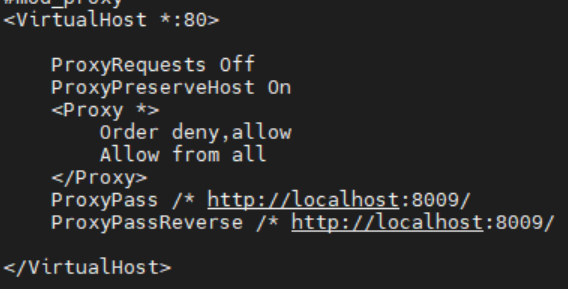
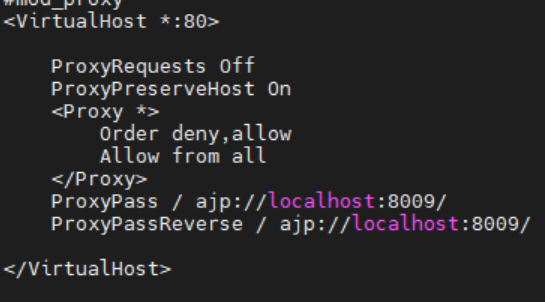
changed

Changed region(s): [[0.0624, 0.1869, 0.9982, 0.8097], [0.0, 0.8408, 0.3119, 0.9654], [0.0, 0.0, 0.4055, 0.0934]]

diff --git a/_posts/2021-04-30-connect apache with tomcat (2).md b/_posts/2021-04-30-connect apache with tomcat (2).md
@@ -12,7 +12,7 @@ author: oscar
 
 mod_proxy_ajp을 사용하여 연동하는 것은 mod_jk보다 훨씬 간단하다.
 
-아파치 홈/conf/httpd.conf 설정 파일을 설정합니다. nano 편집기로 httpd.conf파일을 열어서 'mod_proxy' 모듈을 로드하도록 변경합니다. (주석 풀어줍니다.)
+아파치 홈/conf/httpd.conf 설정 파일을 설정합니다. nano 편집기로 httpd.conf파일을 열어서 'mod_proxy'와 'mod_proxy_ajp' 모듈을 로드하도록 변경합니다. (주석 풀어줍니다.)
 ![mod_proxy1](../image/oscar/2021-04-30_mod_proxy/1.png)
 
 그리고 하단에 다음을 추가해줍니다.
